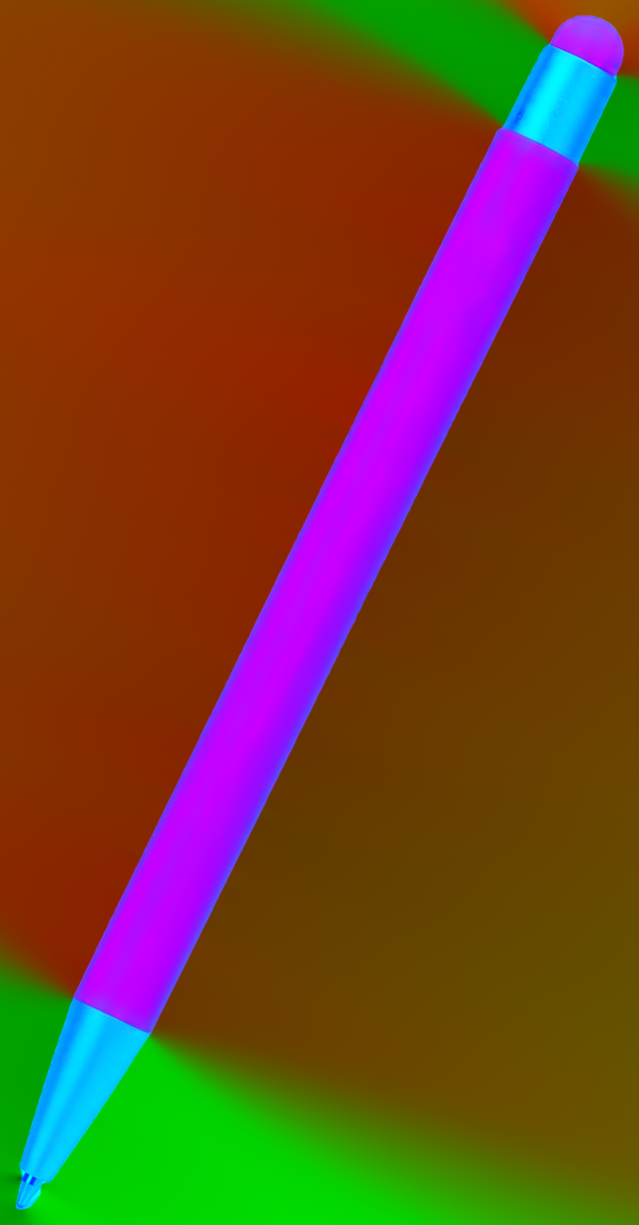
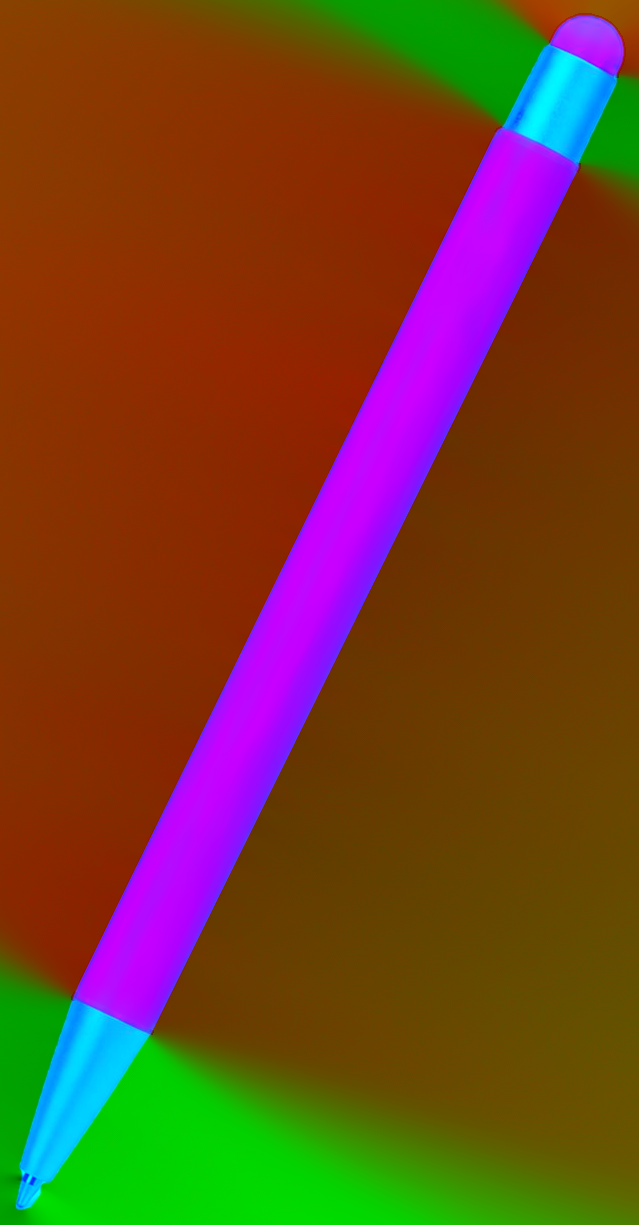
Rene kanter, ingen glorie, roligere sort lak

diff --git a/public/index.html b/public/index.html
@@ -618,13 +618,16 @@ function render(S=1){
   const ramp=state.metalOwn?ownRamp(state.metalOwn):lut4(METALS[state.metal]);
   const g=state.finish, N=L.w*L.h;
   const kHi=L.kHi, cPen=lightContrast(penC), cSt=lightContrast(stC);
+  // Layers upscaled for export carry a 1 px source edge smeared over S px;
+  // steepen alpha back so the silhouette stays as crisp as the photo.
+  const aSl=S>1?1+0.6*(S-1):1;
   // A cut-out lands on backgrounds the pen was never lit against. The silhouette's
   // grazing highlight runs 0.40-0.87 in the white-light channel where the barrel
   // itself sits at 0.02-0.15, so capping that channel at the barrel's own level
   // removes the rim and leaves everything else exactly as photographed.
   const sCap=state.bg==='transparent'?0.16:1;
   for(let q=0;q<N;q++){
-    const i=q*4, cov=A[i+2]/255;
+    const i=q*4, c0=A[i+2]/255, cov=aSl===1?c0:Math.min(1,Math.max(0,(c0-0.5)*aSl+0.5));
     if(cov<0.0015){o[i+3]=0;continue;}
     const k0=A[i]/200, s=A[i+1]/255;
     const k=kHi-(kHi-k0)*cPen, kd=kHi-(kHi-k0)*cSt;

diff --git a/tools/refine_layers.py b/tools/refine_layers.py
@@ -1,0 +1,116 @@
+"""Efterbehandling af lag-filerne: rene kanter og roligere lak.
+
+Kører på de færdige pen_?1.png-filer (lagene fra build_layers.py) og retter tre
+ting, der ses tydeligst på mørke farver:
+
+1. Trappekanter. Skaftet er en ret cylinder, men dækningen (alpha) var rastreret
+   i hele pixels, så en næsten lodret kant hoppede 1 px ad gangen. Kanterne
+   fittes nu som rette linjer langs aksen, og dækningen genberegnes med
+   sub-pixel antialiasing.
+2. Lys rand. Fotoets kant blander pennen med den hvide fotobaggrund. I lagene
+   ender det som hvidt lys (G) og en lak-dyk (R) i de yderste ~10 px, og på en
+   sort eller mørk pen ses det som en grå glorie. Randen trykkes sammen til det
+   halve og dæmpes.
+3. Bølger i lakken. Rester af JPEG-blokke løber skråt over det diagonale skaft.
+   Der glattes langs aksen (hvor lakken er konstant), ikke på tværs.
+
+Brug:  python refine_layers.py ../public
+"""
+import sys, os, json
+import numpy as np, cv2
+from PIL import Image
+F=np.float32
+
+POSES={
+ 'v':dict(c=(798.769,757.719),d=(-0.0016657,-0.9999986),crop=(737,107),barrelT=(-496.31,497.72)),
+ 'd':dict(c=(845.200,787.779),d=(0.4411512,-0.8974328),crop=(520,211),barrelT=(-492.41,484.37)),
+}
+
+def refine(folder, tag, P):
+    A=np.asarray(Image.open(os.path.join(folder,f'pen_{tag}1.png'))).astype(F)
+    B=np.asarray(Image.open(os.path.join(folder,f'pen_{tag}2.png'))).astype(F)
+    H,W=A.shape[:2]
+    k,s,cov=A[...,0]/200,A[...,1]/255,A[...,2]/255
+    wb,wd=B[...,0]/255,B[...,1]/255
+    cx,cy=P['c'][0]-P['crop'][0],P['c'][1]-P['crop'][1]
+    dx,dy=P['d']; nx,ny=-dy,dx
+    gy,gx=np.mgrid[0:H,0:W].astype(F)
+    t=(gx-cx)*dx+(gy-cy)*dy; n=(gx-cx)*nx+(gy-cy)*ny
+    t0,t1=P['barrelT']
+
+    # ---- 1. straight barrel edges -------------------------------------------
+    win=(t>t0+10)&(t<t1-10)
+    inside=win&(cov>=0.5)&(wb>0.5)
+    tb=np.round(t[inside]).astype(int); nn=n[inside]
+    T=np.unique(tb)
+    lo=np.array([nn[tb==v].min() for v in T]); hi=np.array([nn[tb==v].max() for v in T])
+    def robust_line(x,y):
+        m=np.ones(len(x),bool)
+        for _ in range(4):
+            p=np.polyfit(x[m],y[m],1); r=y-np.polyval(p,x)
+            sd=max(np.std(r[m]),0.3); m=np.abs(r)<2.5*sd
+        return p
+    pl,ph=robust_line(T,lo),robust_line(T,hi)
+    LO=np.polyval(pl,t); HI=np.polyval(ph,t)
+    # pick the offset that keeps the barrel's area exactly as photographed
+    ref=cov[win&(np.abs(n-(LO+HI)/2)<(HI-LO)/2+6)].sum()
+    band=win&(np.abs(n-(LO+HI)/2)<(HI-LO)/2+6)
+    best=None
+    for delta in np.linspace(-1.5,1.5,61):
+        c2=np.clip(0.5+np.minimum(n-(LO-delta),(HI+delta)-n),0,1)
+        e=abs(c2[band].sum()-ref)
+        if best is None or e<best[0]: best=(e,delta)
+    delta=best[1]; LO-=delta; HI+=delta
+    covB=np.clip(0.5+np.minimum(n-LO,HI-n),0,1)
+    # feather in over the last 8 px of the window so the barrel meets the metal
+    fe=np.clip(np.minimum(t-(t0+10),(t1-10)-t)/8,0,1)*win
+    side=band
+    covN=np.where(side,cov*(1-fe)+covB*fe,cov)
+
+    # ---- 2. compress the rim -------------------------------------------------
+    D=11.0
+    dist=np.minimum(n-LO,HI-n)                       # distance in from the edge
+    rim=win&(dist>-1)&(dist<D)
+    dd=np.clip(dist,0,D)
+    dsrc=2*dd-dd*dd/D                                 # slope 2 at the edge, 0 at D
+    lower=(n-LO)<(HI-n)
+    nsrc=np.where(lower,LO+dsrc,HI-dsrc)
+    mx=(cx+t*dx+nsrc*nx).astype(F); my=(cy+t*dy+nsrc*ny).astype(F)
+    kS=cv2.remap(k,mx,my,cv2.INTER_LINEAR,borderMode=cv2.BORDER_REPLICATE)
+    sS=cv2.remap(s,mx,my,cv2.INTER_LINEAR,borderMode=cv2.BORDER_REPLICATE)
+    # interior reference D px in, same t
+    nref=np.where(lower,LO+D,HI-D)
+    rx=(cx+t*dx+nref*nx).astype(F); ry=(cy+t*dy+nref*ny).astype(F)
+    sR=cv2.remap(s,rx,ry,cv2.INTER_LINEAR,borderMode=cv2.BORDER_REPLICATE)
+    sS=sR+(sS-sR)*0.6                                 # soft-touch rim is faint
+    w=(rim*fe).astype(F)
+    k2=k*(1-w)+kS*w; s2=s*(1-w)+sS*w
+
+    # other lacquer edges (stylus dome, barrel ends): damp the white-light rim
+    solid=(covN>0.5).astype(np.uint8)
+    dt=cv2.distanceTransform(solid,cv2.DIST_L2,3)
+    lac=(wd>0.3)|((wb>0.3)&~win)
+    damp=np.where(lac,0.55+0.45*np.clip(dt/4,0,1),1).astype(F)
+    s2=s2*damp
+
+    # ---- 3. smooth along the axis -------------------------------------------
+    sig=8.0; r=int(3*sig)
+    yy,xx=np.mgrid[-r:r+1,-r:r+1].astype(F)
+    a=xx*dx+yy*dy; b=xx*nx+yy*ny
+    K=np.exp(-(a*a)/(2*sig*sig)-(b*b)/(2*0.5*0.5)); K=(K/K.sum()).astype(F)
+    core=(win&(dist>2.5)).astype(F)
+    core=cv2.GaussianBlur(core,(0,0),1.5)*(win&(dist>1.5))
+    def along(x):
+        num=cv2.filter2D(x*core,-1,K,borderType=cv2.BORDER_REPLICATE)
+        den=cv2.filter2D(core,-1,K,borderType=cv2.BORDER_REPLICATE)
+        return np.where(den>1e-3,num/np.maximum(den,1e-3),x)
+    k2=k2*(1-core)+along(k2)*core
+    s2=s2*(1-core)+along(s2)*core
+
+    out=np.dstack([np.clip(k2*200,0,255),np.clip(s2*255,0,255),np.clip(covN*255,0,255)]).round().astype(np.uint8)
+    Image.fromarray(out).save(os.path.join(folder,f'pen_{tag}1.png'),optimize=True)
+    print(tag,'edge fit lo/hi slope %.5f %.5f, offset %.2f px'%(pl[0],ph[0],delta))
+
+if __name__=='__main__':
+    folder=sys.argv[1] if len(sys.argv)>1 else '../public'
+    for tag,P in POSES.items(): refine(folder,tag,P)

diff --git a/tools/README.md b/tools/README.md
@@ -89,3 +89,17 @@ skyggemodelleringen ligger på tværs. Derfor glattes der kraftigt *langs* aksen
 stort set ikke *på tværs*. Det fjerner JPEG-blokke uden at røre cylinderformen.
 Standardværdien er 9 px. Er kilden tabsfri, kan man sætte den ned; `--denoise 0`
 slår det fra.
+
+## Efterbehandling: `refine_layers.py`
+
+Kør efter `build_layers.py`, når lagene ligger i `public/`:
+
+```bash
+python refine_layers.py ../public
+```
+
+Den retter skaftets kanter til rette linjer med sub-pixel antialiasing (ingen
+trappetrin), trykker den lyse rand fra fotobaggrunden sammen, og glatter lakken
+langs aksen, så JPEG-bølger ikke ses på mørke farver. Positurernes akse og
+`barrelT` står øverst i scriptet og skal matche `POSES` i `index.html`.
+Kør den kun én gang pr. sæt lag.
